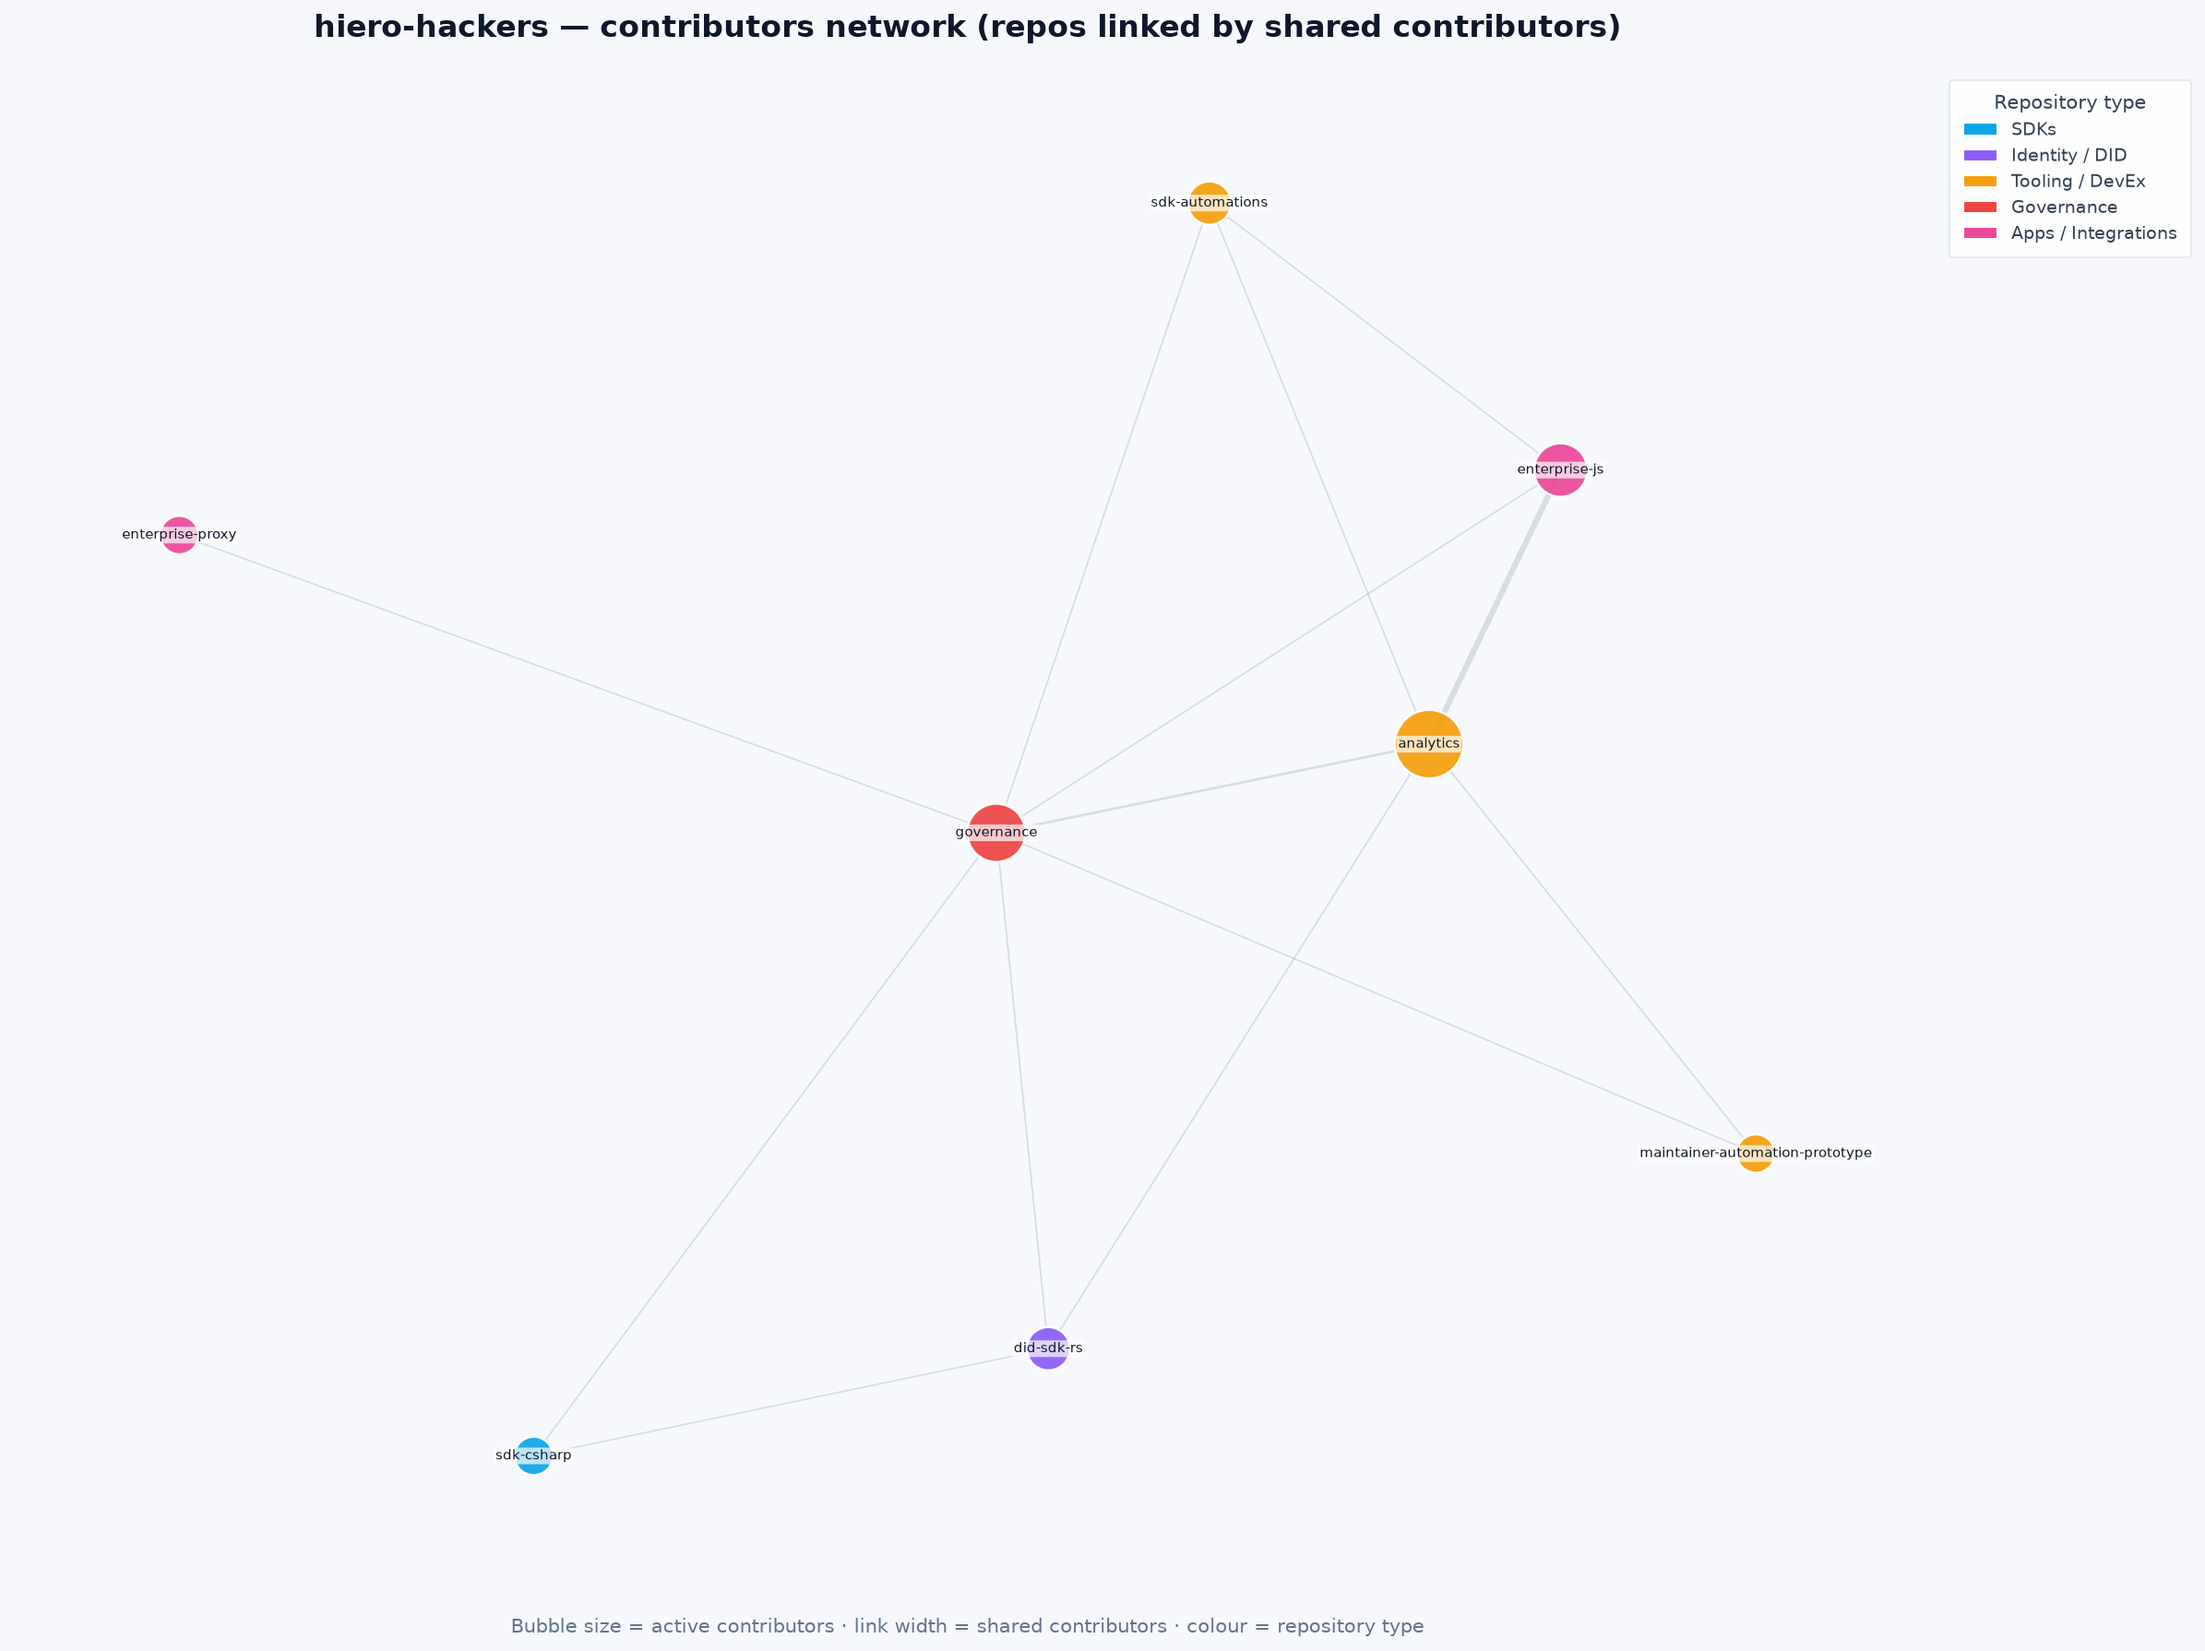
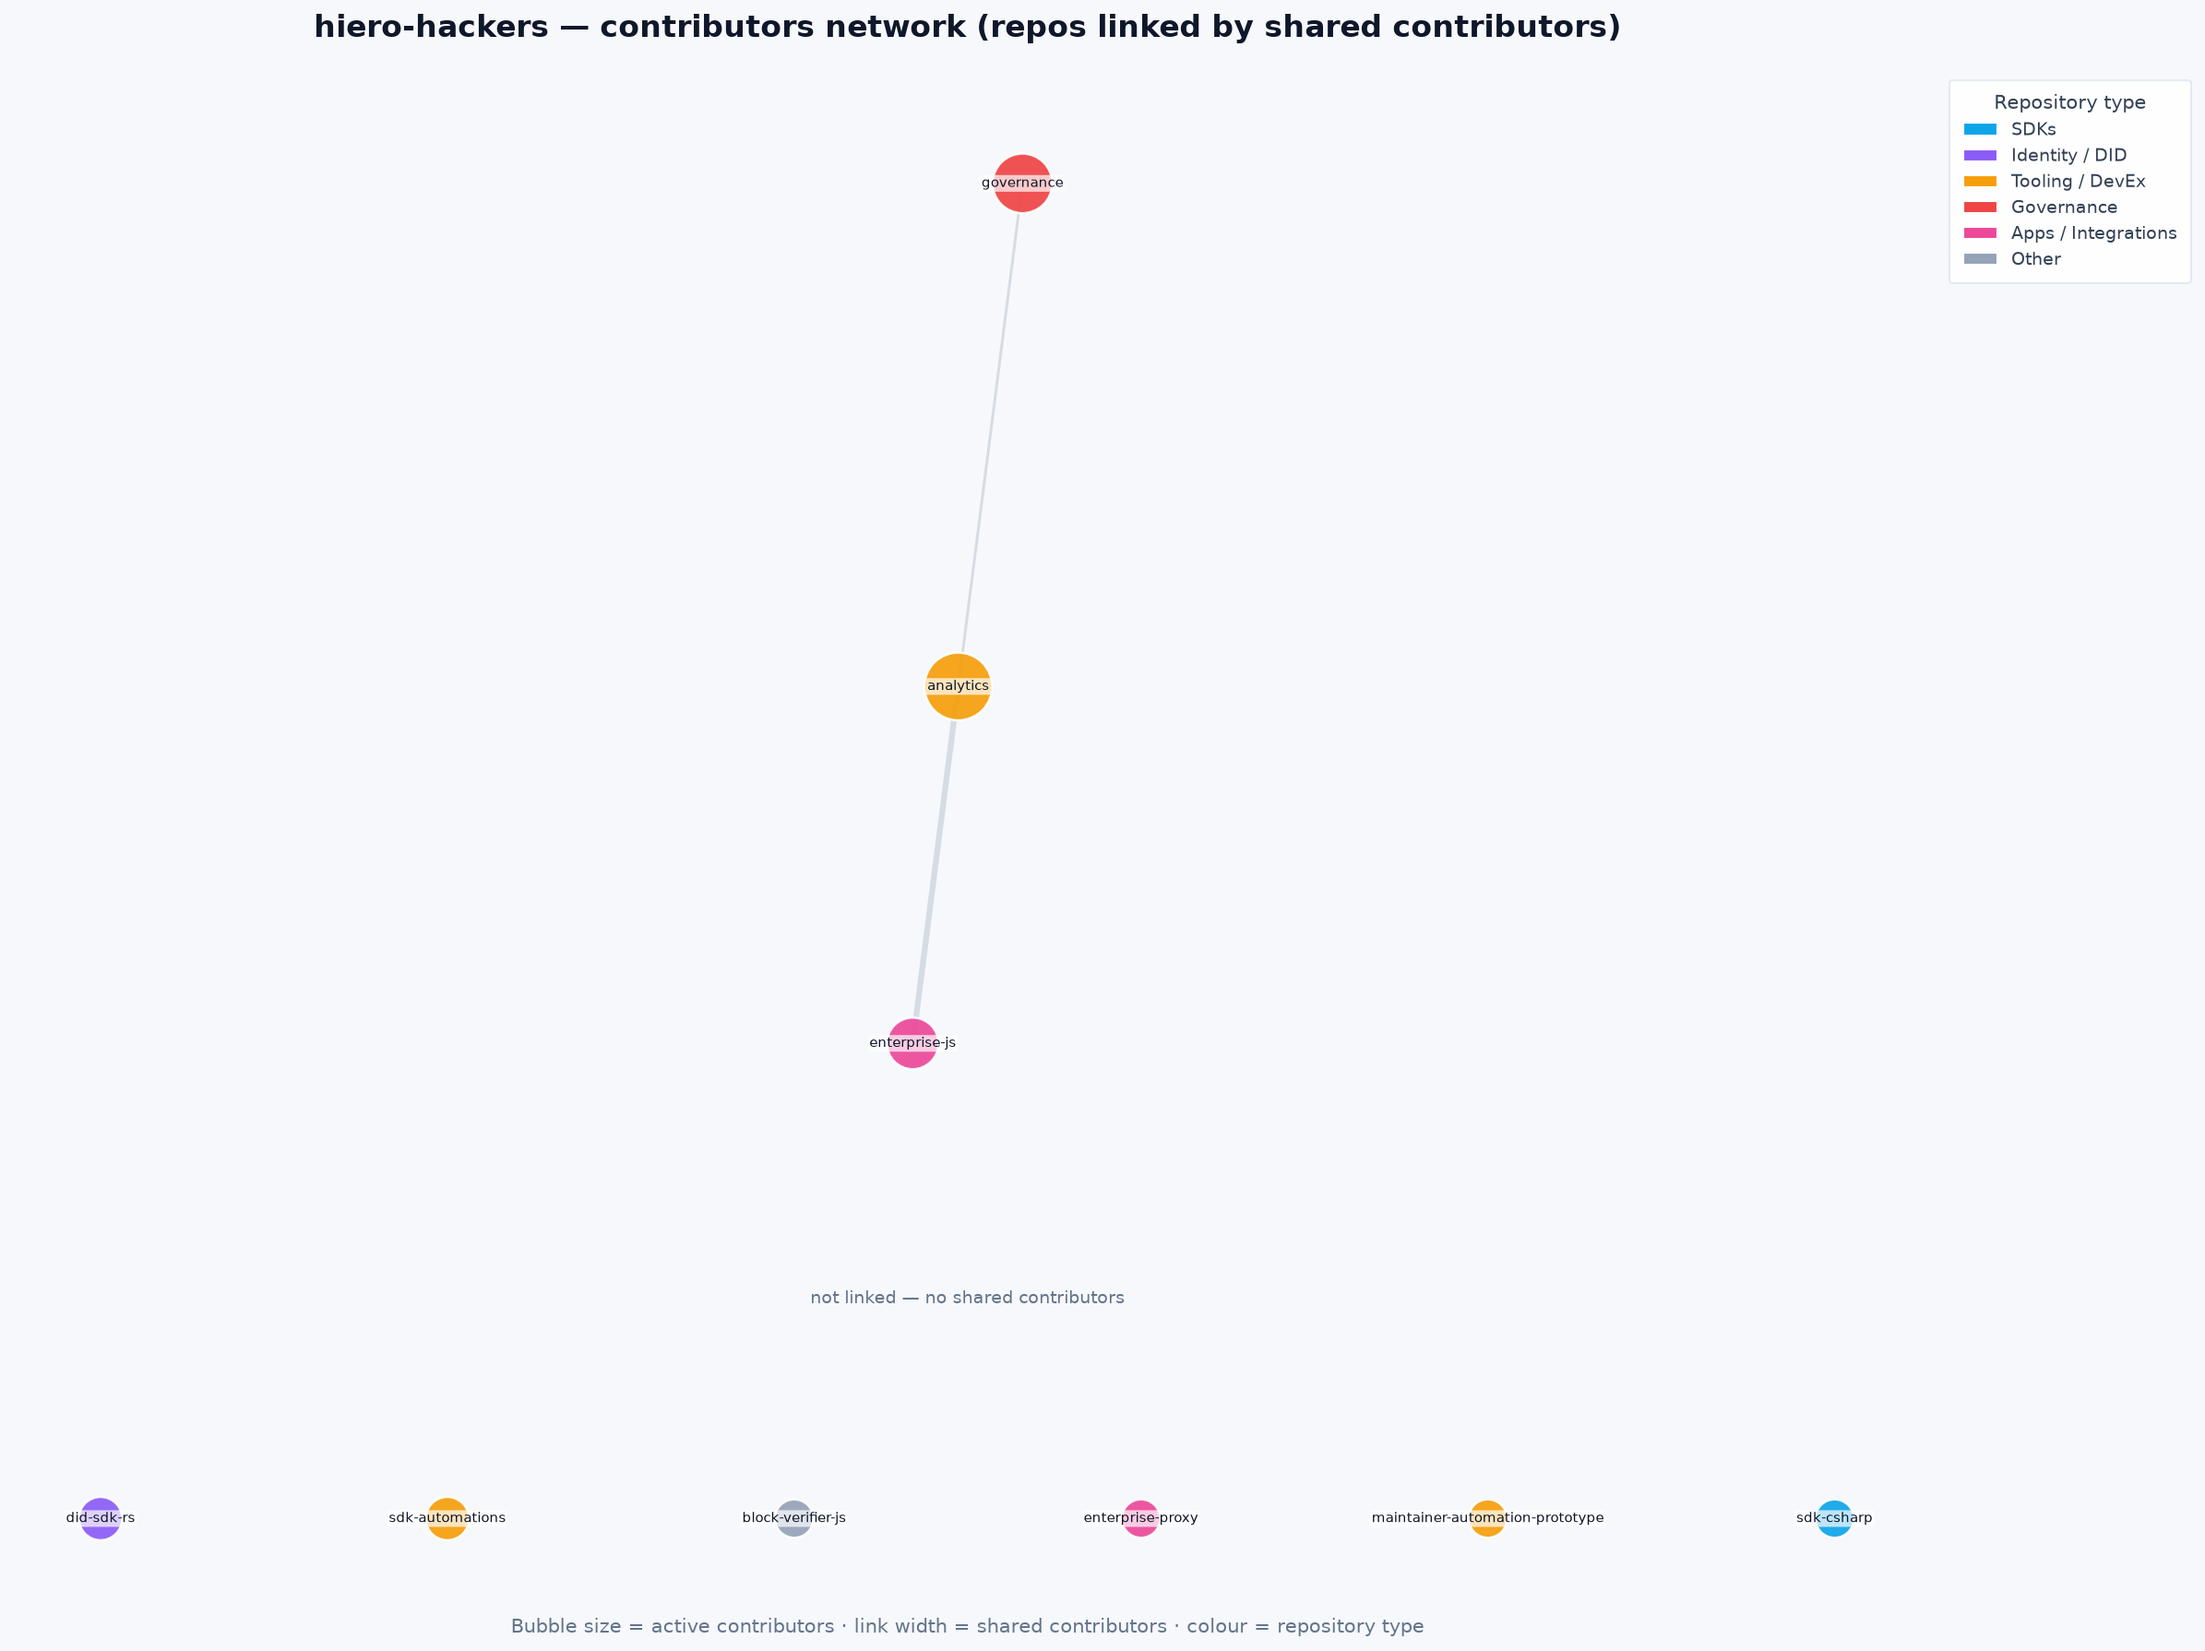
fix: AI feedback

diff --git a/src/hiero_analytics/analysis/contributor_activity_profile.py b/src/hiero_analytics/analysis/contributor_activity_profile.py
@@ -97,17 +97,18 @@ def contributor_activity_to_dataframe(
 def label_events_to_dataframe(
     label_events: list[IssueTimelineEventRecord],
 ) -> pd.DataFrame:
-    """Flatten label add/remove events into the same per-event schema.
+    """Flatten label *applications* into the same per-event schema.
 
-    Each event is attributed to the contributor who applied it (``actor``) as a
-    synthetic ``labeled_issue`` activity in the organizing family. Events without
-    an actor (e.g. older datasets fetched before ``actor`` was captured) are
-    dropped, so this is additive and safe on partial data.
+    Each ``labeled`` event is attributed to the contributor who applied it
+    (``actor``) as a synthetic ``labeled_issue`` activity in the organizing family.
+    ``unlabeled`` (removal) events are ignored, so removals don't inflate the
+    organizing counts. Events without an actor (e.g. older datasets fetched before
+    ``actor`` was captured) are dropped, so this is additive and safe on partial data.
     """
     return records_to_dataframe(
         label_events,
         lambda e: None
-        if not e.actor
+        if not e.actor or e.event_type != "labeled"
         else {
             "contributor": e.actor,
             "activity_type": "labeled_issue",

diff --git a/src/hiero_analytics/run_role_coverage_org.py b/src/hiero_analytics/run_role_coverage_org.py
@@ -111,7 +111,11 @@ def _write_role_coverage(roles_by_repo, all_time_by_repo, recent_by_repo, repo_l
     Counts are all-time with windowed ``*_recent`` columns; status/recency is all-time.
     Every repo with role-holders is covered, even quiet ones.
     """
-    all_repo_names = {repo for repo, _ in repo_last_seen} | set(all_time_by_repo)
+    # Cover every governance repo that has role-holders — including quiet ones with
+    # no recorded activity (often the highest-risk repos) — not just repos seen in
+    # the activity data.
+    role_repo_fulls = {f"{ORG}/{bare}" for bare in roles_by_repo}
+    all_repo_names = {repo for repo, _ in repo_last_seen} | set(all_time_by_repo) | role_repo_fulls
     coverage_all = []
     for repo_full in sorted(all_repo_names):
         holders = roles_by_repo.get(repo_full.split("/")[-1])

diff --git a/tests/data_sources/test_dataset_store.py b/tests/data_sources/test_dataset_store.py
@@ -8,6 +8,7 @@ from datetime import UTC, datetime, timedelta
 import pytest
 
 from hiero_analytics.data_sources.dataset_store import (
+    DATASET_VERSION,
     PartialOrgFetchError,
     fetch_incremental,
     load_dataset,
@@ -85,7 +86,7 @@ def test_load_returns_none_on_version_mismatch(tmp_path):
     """A dataset written with an incompatible version is ignored."""
     path = tmp_path / "issues.json"
     save_dataset(path, [_rec("a", 1, 1)], datetime(2024, 1, 1, tzinfo=UTC))
-    path.write_text(path.read_text().replace('"version": 1', '"version": 999'))
+    path.write_text(path.read_text().replace(f'"version": {DATASET_VERSION}', '"version": 999'))
     assert load_dataset(path, _Record) is None
 
 

diff --git a/src/hiero_analytics/data_sources/governance_config.py b/src/hiero_analytics/data_sources/governance_config.py
@@ -137,6 +137,8 @@ def build_repo_role_lookup(config: dict[str, Any]) -> dict[str, dict[str, str]]:
         # teams there so they're not misreported as having zero maintainers.
         if not any(role == "maintainer" for role in roles.values()):
             for user, role in _resolve_roles(assignments, team_members, only=BLANKET_TEAMS).items():
+                if role != "maintainer":
+                    continue  # credit blanket *maintainers* only — not triage/write holders
                 current = roles.get(user)
                 if current is None or ROLE_PRIORITY[role] > ROLE_PRIORITY[current]:
                     roles[user] = role

diff --git a/src/hiero_analytics/data_sources/dataset_store.py b/src/hiero_analytics/data_sources/dataset_store.py
@@ -25,7 +25,10 @@ from typing import TypeVar
 
 from .serialization import deserialize_record, serialize_record
 
-DATASET_VERSION = 1
+# Bump to invalidate persisted datasets after a schema change so the next run does
+# one full refresh. v2: IssueTimelineEventRecord gained an ``actor`` field, so older
+# label-event datasets must be re-fetched to populate it.
+DATASET_VERSION = 2
 
 # Re-fetch a small window before the stored watermark so edits that landed
 # mid-fetch (or under minor clock skew) are not missed. Re-merges are idempotent.

diff --git a/src/hiero_analytics/config/github.py b/src/hiero_analytics/config/github.py
@@ -21,4 +21,7 @@ SECONDARY_RATE_LIMIT_FALLBACK_SECONDS = 30
 # secondary (abuse) rate limit is triggered by request burst/concurrency, not
 # just hourly quota. Raise via env (e.g. GITHUB_MAX_WORKERS=6) for speed when the
 # org is small or the token has generous limits; lower it when hitting 403s.
-GITHUB_MAX_WORKERS = int(os.getenv("GITHUB_MAX_WORKERS", 3))
+try:
+    GITHUB_MAX_WORKERS = max(1, int(os.getenv("GITHUB_MAX_WORKERS", "3")))
+except ValueError:
+    GITHUB_MAX_WORKERS = 3
